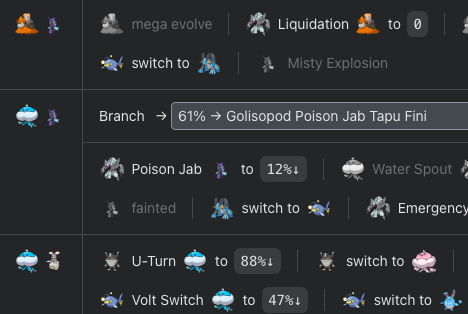
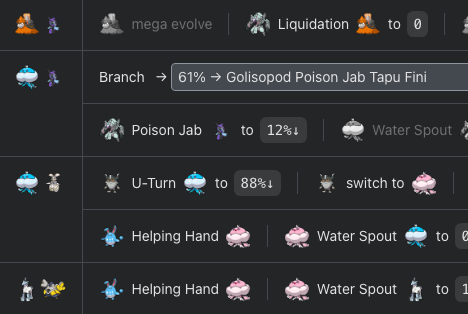
fix feature tests

diff --git a/site/tests/guide.spec.ts b/site/tests/guide.spec.ts
@@ -116,14 +116,14 @@ async function getFeatureSnapshot(
   name: string
 ): Promise<void> {
   const page = loc.page();
-  await loc.evaluate((el) => el.scrollIntoView({ block: "start" }));
-  const box = await loc.boundingBox();
 
-  await loc.evaluate((el) => el.setAttribute("data-feature", ""));
   const styleTag = await page.addStyleTag({
-    content: `[data-feature] div { flex-wrap: nowrap !important; }`,
+    content: `[data-turn] { min-width: 9999px !important; }`,
   });
   await waitForRender(loc);
+  
+  await loc.evaluate((el) => el.scrollIntoView({ block: "start" }));
+  const box = await loc.boundingBox();
 
   for (const theme of ["dark", "light"] as const) {
     await page.evaluate((t) => document.documentElement.setAttribute("data-theme", t), theme);
@@ -142,7 +142,6 @@ async function getFeatureSnapshot(
   }
 
   await styleTag.evaluate((el) => (el as HTMLElement).remove());
-  await loc.evaluate((el) => el.removeAttribute("data-feature"));
 }
 
 const FEATURES: { heading: string; summary: string; name: string }[] = [

diff --git a/site/src/components/Battle/index.tsx b/site/src/components/Battle/index.tsx
@@ -442,7 +442,7 @@ function Turn({ children }: { children: React.ReactNode }) {
   }, []);
 
   return (
-    <div ref={containerRef} className={styles.turn}>
+    <div ref={containerRef} className={styles.turn} data-turn="">
       {lines === null && (
         <div className={styles.turnMeasure} aria-hidden>
           {childArray.map((child, i) => (
